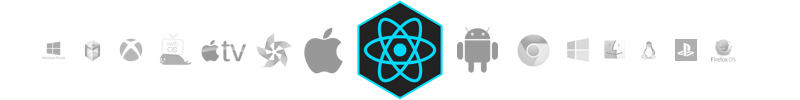
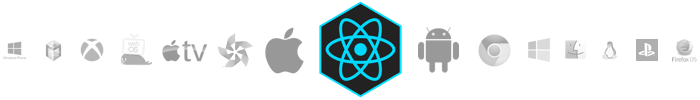
0.4.6

Changed region(s): [[0.39, 0.0, 1.0, 0.99], [0.0, 0.33, 0.39, 0.66], [0.0, 0.42, 0.03, 0.54]]

diff --git a/README.md b/README.md
@@ -1,5 +1,5 @@
 <p align="center">
-  <img width="800" height="100" src="https://github.com/pavjacko/react-native-vanilla/blob/master/docs/rn_exp.png?raw=true" />
+  <img width="700" height="100" src="https://github.com/pavjacko/react-native-vanilla/blob/master/docs/rn_exp.png?raw=true" />
 <p>
   <h1 align="center">react-native-vanilla</h1>
 <table>
